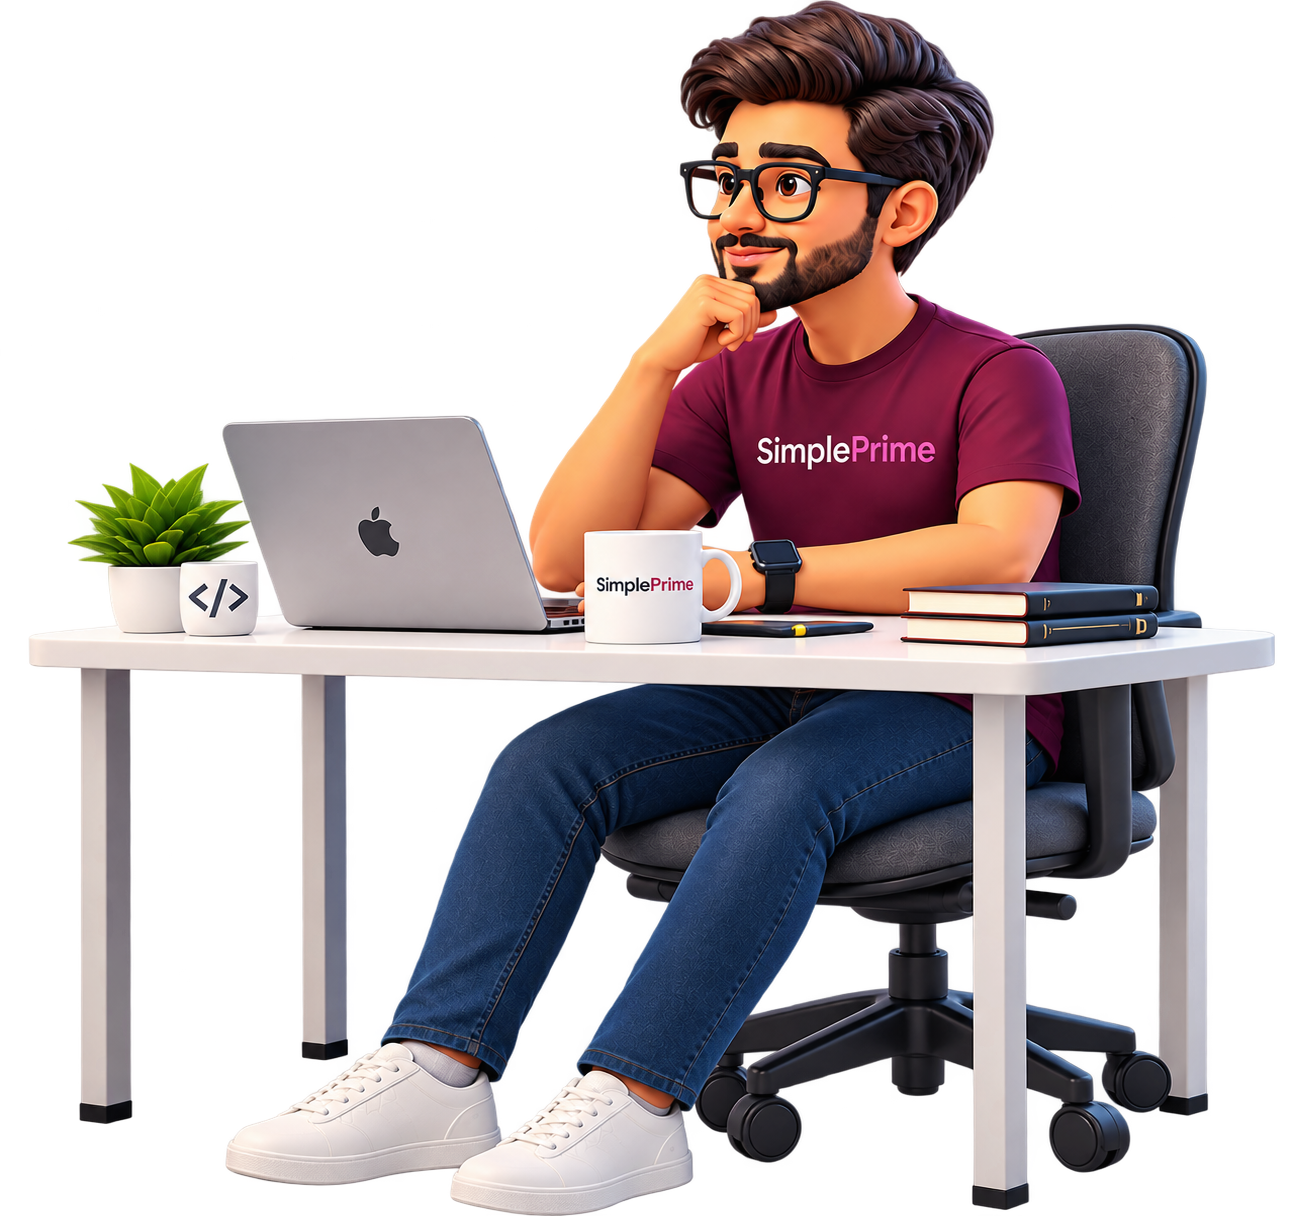
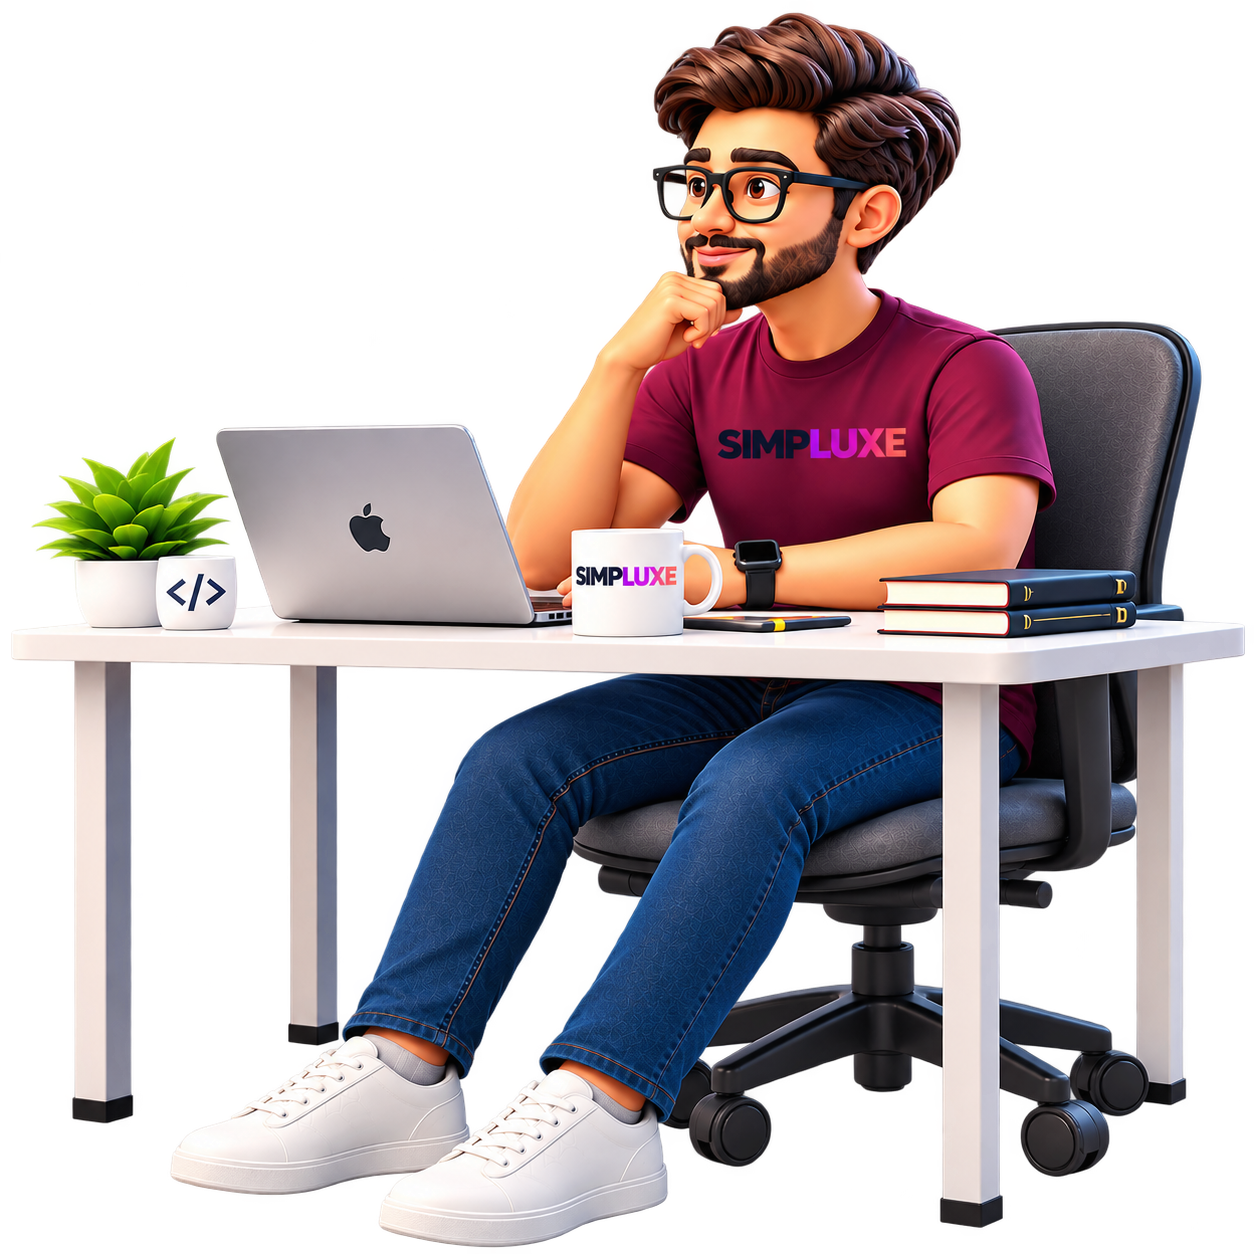
feat: add HowWeWork section component and supporting assets

diff --git a/components/sections/how-we-work.tsx b/components/sections/how-we-work.tsx
@@ -105,7 +105,7 @@ const STEPS: StepConfig[] = [
       },
     ],
     nextStepName: "Design",
-    imageSrc: "/images/process/discover.png",
+    imageSrc: "/assets/discover.png",
   },
   {
     id: "design",
@@ -114,8 +114,8 @@ const STEPS: StepConfig[] = [
     title: "Design",
     subtitle: "UI/UX & Prototype",
     icon: Pencil,
-    headlineFirst: "Clarity before a single line",
-    headlineAccent: "of code.",
+    headlineFirst: "Clarity before",
+    headlineAccent: "we code.",
     summary:
       "Interactive Figma prototypes and a production token library. You test and validate the screens and interactions before development begins.",
     features: [
@@ -148,17 +148,17 @@ const STEPS: StepConfig[] = [
         desc: "Pre-code feedback loops with real stakeholder testing.",
       },
     ],
-    nextStepName: "Engineer",
-    imageSrc: "/images/process/design.png",
+    nextStepName: "Develop",
+    imageSrc: "/assets/design-develop.png",
   },
   {
-    id: "engineer",
+    id: "develop",
     number: "03",
     stepKicker: "STEP 03 / 04",
-    title: "Engineer",
+    title: "Develop",
     subtitle: "Build & Integrate",
     icon: Code2,
-    headlineFirst: "Production code, built",
+    headlineFirst: "Code built",
     headlineAccent: "to scale.",
     summary:
       "Next.js App Router, TailwindCSS, TypeScript, and serverless backend architecture. Demo deployments let you watch the product come alive.",
@@ -193,7 +193,7 @@ const STEPS: StepConfig[] = [
       },
     ],
     nextStepName: "Launch",
-    imageSrc: "/images/process/engineer.png",
+    imageSrc: "/assets/design-develop.png",
   },
   {
     id: "launch",
@@ -202,8 +202,8 @@ const STEPS: StepConfig[] = [
     title: "Launch",
     subtitle: "Deploy & Grow",
     icon: Rocket,
-    headlineFirst: "Launch day is step one,",
-    headlineAccent: "not the finish line.",
+    headlineFirst: "Launch is just",
+    headlineAccent: "the beginning.",
     summary:
       "DNS cutover, SEO indexing check, telemetry dashboards, and post-launch support to ensure a smooth transition to production.",
     features: [
@@ -237,7 +237,7 @@ const STEPS: StepConfig[] = [
       },
     ],
     nextStepName: "Start Project",
-    imageSrc: "/images/process/launch.png",
+    imageSrc: "/assets/launch.png",
   },
 ];
 
@@ -302,7 +302,7 @@ export function HowWeWork() {
         {/* ========================================================================= */}
         {/* STEPPER NAVIGATION BAR (Horizontal connected flow) */}
         {/* ========================================================================= */}
-        <div className="flex items-center justify-start md:justify-center gap-2 sm:gap-3 md:gap-4 mb-8 sm:mb-10 overflow-x-auto py-4 -my-4 px-4 -mx-4 scrollbar-none">
+        <div className="flex items-center justify-start md:justify-center gap-2 sm:gap-3 md:gap-4 mb-4 overflow-x-auto py-4 -my-4 px-4 -mx-4 scrollbar-none">
           {STEPS.map((step, index) => {
             const isActive = activeStepIndex === index;
             const StepIcon = step.icon;
@@ -741,7 +741,7 @@ export function HowWeWork() {
                     {/* Layer 6: Foreground 3D Character at Desk (discover.png) */}
                     <div className="relative z-20 w-full flex items-end justify-center pointer-events-none">
                       <Image
-                        src="/images/process/discover.png"
+                        src="/assets/discover.png"
                         alt="Discover Phase - SimpleThink"
                         width={1774}
                         height={887}
@@ -879,7 +879,7 @@ export function HowWeWork() {
                     {/* Layer 6: Image */}
                     <div className="relative z-20 w-full flex items-end justify-center pointer-events-none">
                       <Image
-                        src="/images/process/design.png"
+                        src="/assets/design-develop.png"
                         alt="Design Phase - SimpleThink"
                         width={1774}
                         height={887}
@@ -1006,8 +1006,8 @@ export function HowWeWork() {
                     {/* Layer 6: Image */}
                     <div className="relative z-20 w-full flex items-end justify-center pointer-events-none">
                       <Image
-                        src="/images/process/engineer.png"
-                        alt="Engineer Phase - SimpleThink"
+                        src="/assets/design-develop.png"
+                        alt="Develop Phase - SimpleThink"
                         width={1774}
                         height={887}
                         priority
@@ -1143,7 +1143,7 @@ export function HowWeWork() {
                     {/* Layer 6: Image */}
                     <div className="relative z-20 w-full flex items-end justify-center pointer-events-none">
                       <Image
-                        src="/images/process/launch.png"
+                        src="/assets/launch.png"
                         alt="Launch Phase - SimpleThink"
                         width={1774}
                         height={887}
